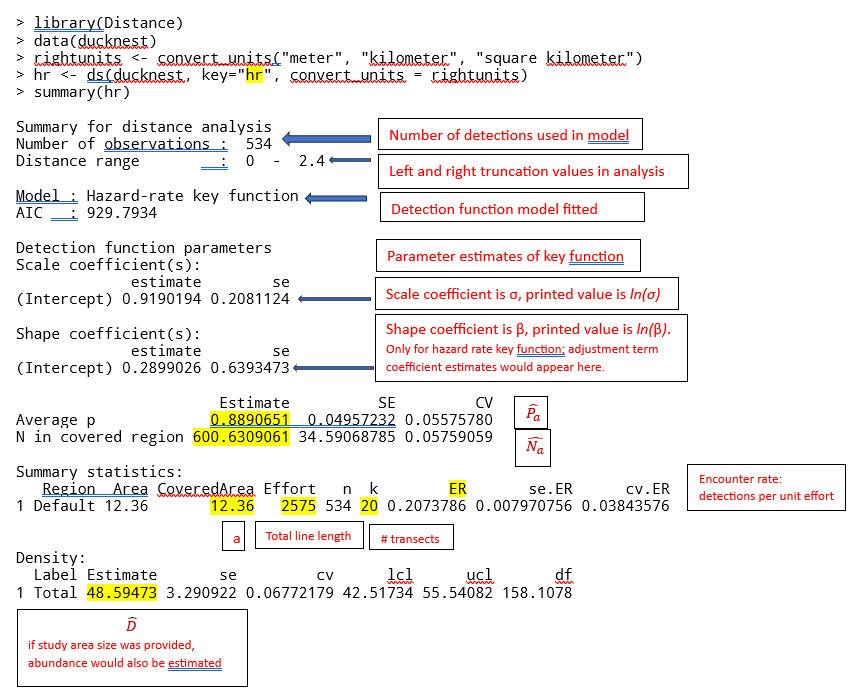
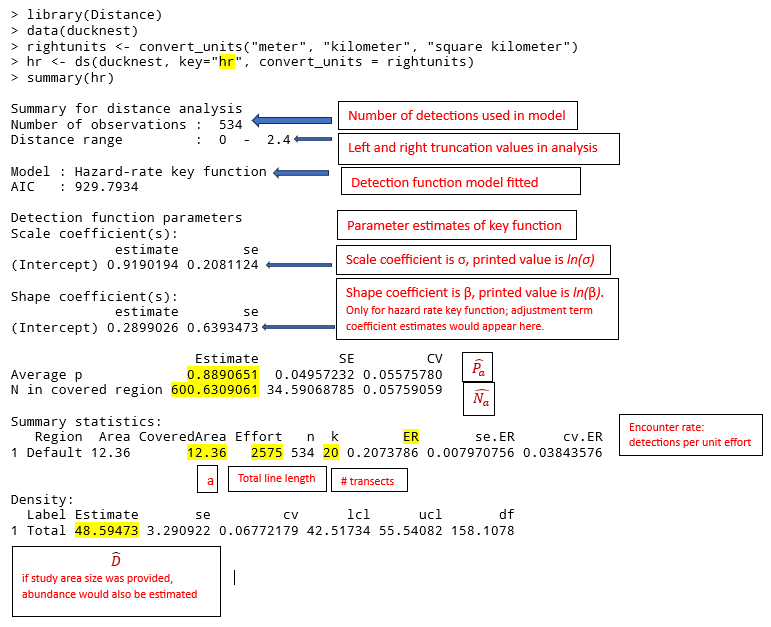
prettier labelled output example

Changed region(s): [[0.0, 0.0, 1.0, 1.0]]

diff --git a/docs/announce.html b/docs/announce.html
@@ -279,7 +279,29 @@ Oct 10, 2023
 </div>
 </a>
 </div>
-<div class="g-col-1" data-index="2" data-listing-date-sort="1695596400000" data-listing-file-modified-sort="1694433194574" data-listing-date-modified-sort="NaN" data-listing-reading-time-sort="1">
+<div class="g-col-1" data-index="2" data-listing-date-sort="1696892400000" data-listing-file-modified-sort="1696940550578" data-listing-date-modified-sort="NaN" data-listing-reading-time-sort="2">
+<a href="./announce/2023-07-12-labelledoutput/index.html" class="quarto-grid-link">
+<div class="quarto-grid-item card h-100 card-left">
+<p class="card-img-top">
+<img src="https://images.unsplash.com/photo-1630327722923-5ebd594ddda9?ixlib=rb-4.0.3&amp;ixid=M3wxMjA3fDB8MHxzZWFyY2h8MTd8fHByaW50ZXJ8ZW58MHx8MHx8fDA%3D&amp;auto=format&amp;fit=crop&amp;w=500&amp;q=60" class="thumbnail-image card-img" style="height: 300px;">
+</p>
+<div class="card-body post-contents">
+<h5 class="no-anchor card-title listing-title">
+Annotated <code>ds</code> output
+</h5>
+<div class="card-text listing-description">
+What do all those numbers in the summary mean?
+</div>
+<div class="card-attribution card-text-small end">
+<div class="listing-date">
+Oct 10, 2023
+</div>
+</div>
+</div>
+</div>
+</a>
+</div>
+<div class="g-col-1" data-index="3" data-listing-date-sort="1695596400000" data-listing-file-modified-sort="1694433194574" data-listing-date-modified-sort="NaN" data-listing-reading-time-sort="1">
 <a href="./announce/2022-11-30-announce1/index.html" class="quarto-grid-link">
 <div class="quarto-grid-item card h-100 card-left">
 <p class="card-img-top">

diff --git a/docs/announce/2023-07-12-labelledoutput/index.html b/docs/announce/2023-07-12-labelledoutput/index.html
@@ -7,7 +7,7 @@
 <meta name="viewport" content="width=device-width, initial-scale=1.0, user-scalable=yes">
 
 <meta name="author" content="Eric Rexstad">
-<meta name="dcterms.date" content="2023-10-12">
+<meta name="dcterms.date" content="2023-10-10">
 <meta name="description" content="What do all those numbers in the summary mean?">
 
 <title>Distance sampling workshop - Annotated ds output</title>
@@ -159,7 +159,7 @@ ul.task-list li input[type="checkbox"] {
       <div>
       <div class="quarto-title-meta-heading">Published</div>
       <div class="quarto-title-meta-contents">
-        <p class="date">October 12, 2023</p>
+        <p class="date">October 10, 2023</p>
       </div>
     </div>
     
